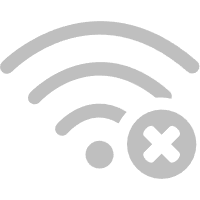
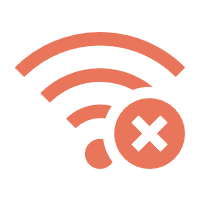
修改效果图显示排版问题

diff --git a/lib/widget/dialog/privacy_policy_dialog.dart b/lib/widget/dialog/privacy_policy_dialog.dart
@@ -43,7 +43,15 @@ class PrivacyPolicyDialog {
   static Future<void> show({Function()? onAgree, Function()? onDisagree}) async {
     try {
       await Get.dialog(
+        // 缓入缓出 - 两端慢，中间快
         transitionCurve: Curves.easeInOut,
+        // 缓出 - 开始快，后面慢（最自然）
+        //transitionCurve: Curves.easeOut,
+        //  缓入 - 开始慢，后面快
+        //transitionCurve: Curves.easeIn,
+        // 线性动画 - 匀速
+        //transitionCurve: Curves.linear,
+        transitionDuration: const Duration(milliseconds: 800),
         _PrivacyPolicyContent(
           onAgree: () async {
             await _saveAgreed(true);

diff --git a/README.md b/README.md
@@ -4,20 +4,12 @@
 3. 美观的UI设计，符合Flutter的UI规范。
 
 ## 项目运行效果截图
-<img src="./screenshots/img_1.jpg" width="200" />
-<img src="./screenshots/img_2.jpg" width="200" />
-<img src="./screenshots/img_3.jpg" width="200" />
-<img src="./screenshots/img_4.jpg" width="200" />
-<img src="./screenshots/img_5.jpg" width="200" />
-<img src="./screenshots/img_6.jpg" width="200" />
-<img src="./screenshots/img_7.jpg" width="200" />
-<img src="./screenshots/img_8.jpg" width="200" />
-<img src="./screenshots/img_9.jpg" width="200" />
-<img src="./screenshots/img_10.jpg" width="200" />
-<img src="./screenshots/img_11.jpg" width="200" />
-<img src="./screenshots/img_12.jpg" width="200" />
-<img src="./screenshots/img_13.jpg" width="200" />
-<img src="./screenshots/img_14.jpg" width="200" />
+<img src="./screenshots/img_1.jpg" width="200" /> <img src="./screenshots/img_2.jpg" width="200" /> <img src="./screenshots/img_3.jpg" width="200" />
+<img src="./screenshots/img_4.jpg" width="200" /> <img src="./screenshots/img_5.jpg" width="200" /> <img src="./screenshots/img_6.jpg" width="200" />
+<img src="./screenshots/img_7.jpg" width="200" /> <img src="./screenshots/img_8.jpg" width="200" /> <img src="./screenshots/img_9.jpg" width="200" />
+<img src="./screenshots/img_10.jpg" width="200" /> <img src="./screenshots/img_11.jpg" width="200" /> <img src="./screenshots/img_12.jpg" width="200" />
+<img src="./screenshots/img_13.jpg" width="200" /> <img src="./screenshots/img_14.jpg" width="200" />
+
 
 
 
